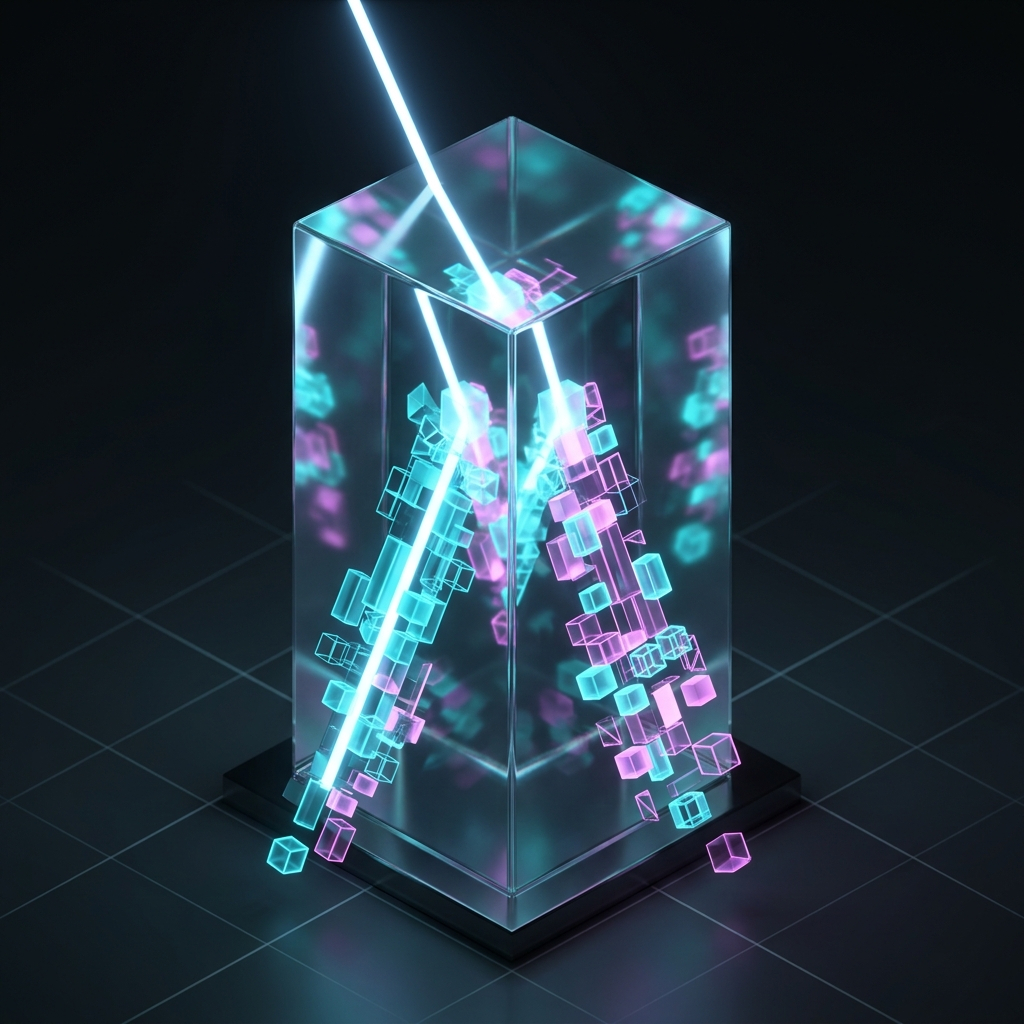
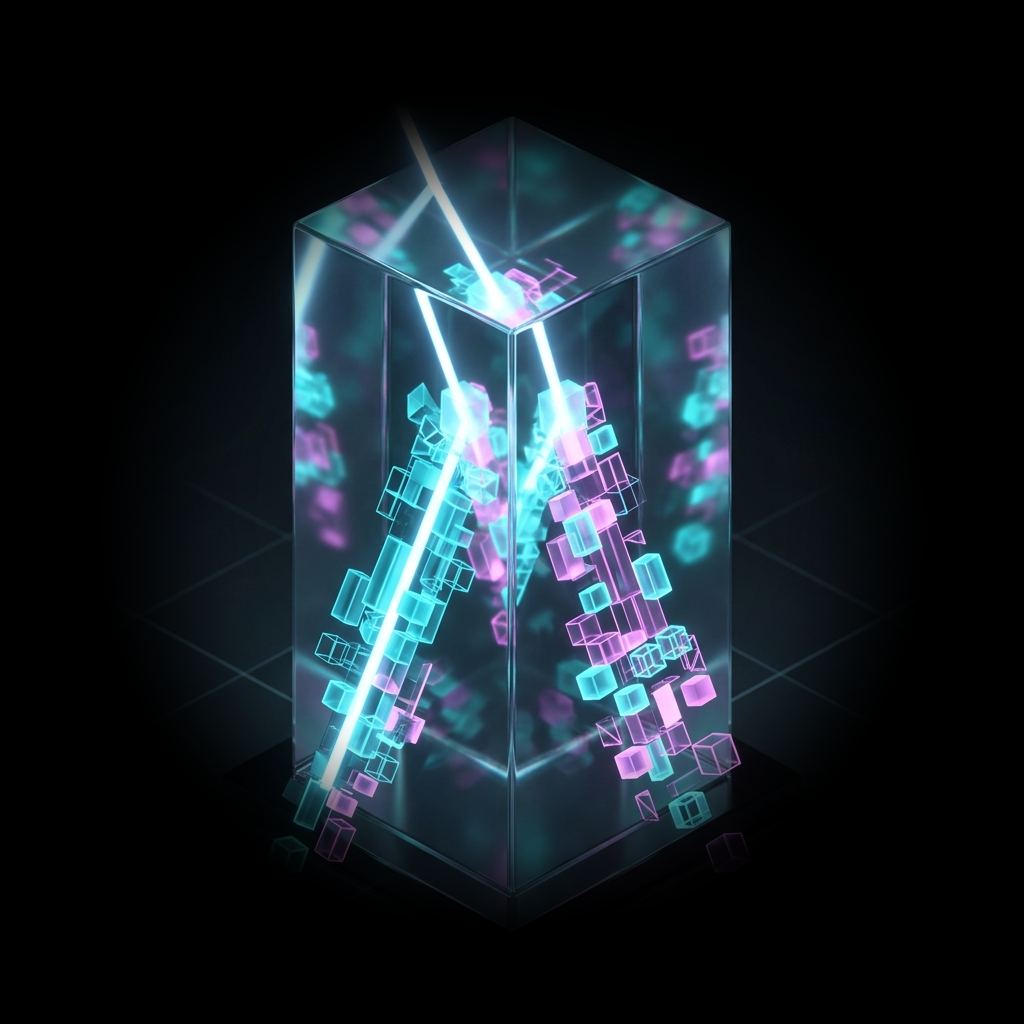
Add vignette to images for perfect black borders with mix-blend-screen and implement Resend server action for Partner Form

diff --git a/src/components/ui/PartnerButton.tsx b/src/components/ui/PartnerButton.tsx
@@ -3,7 +3,8 @@
 import React, { useState } from 'react';
 import { Button, ButtonProps } from './Button';
 import { motion, AnimatePresence } from 'framer-motion';
-import { X } from 'lucide-react';
+import { X, CheckCircle, Loader2 } from 'lucide-react';
+import { sendPartnerEmail } from '@/app/actions/contact';
 
 interface PartnerButtonProps extends ButtonProps {
     children: React.ReactNode;
@@ -11,6 +12,9 @@ interface PartnerButtonProps extends ButtonProps {
 
 export function PartnerButton({ children, className, ...props }: PartnerButtonProps) {
     const [isOpen, setIsOpen] = useState(false);
+    const [isSubmitting, setIsSubmitting] = useState(false);
+    const [isSuccess, setIsSuccess] = useState(false);
+    const [errorMsg, setErrorMsg] = useState('');
     
     // Form state
     const [name, setName] = useState('');
@@ -18,20 +22,34 @@ export function PartnerButton({ children, className, ...props }: PartnerButtonPr
     const [role, setRole] = useState('Scientist / Researcher');
     const [message, setMessage] = useState('');
 
-    const handleSubmit = (e: React.FormEvent) => {
+    const handleSubmit = async (e: React.FormEvent) => {
         e.preventDefault();
+        setIsSubmitting(true);
+        setErrorMsg('');
         
-        // Compile subject and body
-        const subject = encodeURIComponent(`Partner Inquiry: ${role} - ${name}`);
-        const body = encodeURIComponent(
-            `Name: ${name}\nEmail: ${email}\nRole: ${role}\n\nMessage:\n${message}`
-        );
-        
-        // Open mail client
-        window.location.href = `mailto:kylen@levlhealth.com?subject=${subject}&body=${body}`;
-        
-        // Close modal after brief delay
-        setTimeout(() => setIsOpen(false), 300);
+        try {
+            const res = await sendPartnerEmail({ name, email, role, message });
+            
+            if (res.success) {
+                setIsSuccess(true);
+                setTimeout(() => {
+                    setIsOpen(false);
+                    // Reset form after closing
+                    setTimeout(() => {
+                        setIsSuccess(false);
+                        setName('');
+                        setEmail('');
+                        setMessage('');
+                    }, 300);
+                }, 2000);
+            } else {
+                setErrorMsg(res.error || 'Failed to send message.');
+            }
+        } catch (error) {
+            setErrorMsg('An unexpected error occurred.');
+        } finally {
+            setIsSubmitting(false);
+        }
     };
 
     return (
@@ -127,13 +145,28 @@ export function PartnerButton({ children, className, ...props }: PartnerButtonPr
                                     </div>
 
                                     <div className="pt-2">
-                                        <Button type="submit" variant="primary" className="w-full h-12">
-                                            Prepare Message
+                                        <Button type="submit" variant="primary" className="w-full h-12" disabled={isSubmitting || isSuccess}>
+                                            {isSubmitting ? (
+                                                <><Loader2 className="w-5 h-5 mr-2 animate-spin" /> Sending...</>
+                                            ) : isSuccess ? (
+                                                <><CheckCircle className="w-5 h-5 mr-2 text-green-400" /> Sent Successfully</>
+                                            ) : (
+                                                "Send Message"
+                                            )}
                                         </Button>
                                     </div>
-                                    <p className="text-center text-xs text-white/40 mt-3">
-                                        This will open your default email client so you can review before sending.
-                                    </p>
+                                    
+                                    {errorMsg && (
+                                        <p className="text-center text-sm text-red-400 mt-2">
+                                            {errorMsg}
+                                        </p>
+                                    )}
+                                    
+                                    {!errorMsg && !isSuccess && (
+                                        <p className="text-center text-xs text-white/40 mt-3">
+                                            We typically respond within 24 hours.
+                                        </p>
+                                    )}
                                 </form>
                             </div>
                         </motion.div>

diff --git a/src/app/actions/contact.ts b/src/app/actions/contact.ts
@@ -1,0 +1,47 @@
+"use server";
+
+import { Resend } from 'resend';
+
+export async function sendPartnerEmail(formData: {
+  name: string;
+  email: string;
+  role: string;
+  message: string;
+}) {
+  try {
+    const resendApiKey = process.env.RESEND_API_KEY;
+    
+    if (!resendApiKey) {
+      console.warn("RESEND_API_KEY is not set. Simulating email send for:", formData);
+      return { success: true, message: "Email simulated (no API key)" };
+    }
+
+    const resend = new Resend(resendApiKey);
+
+    const { data, error } = await resend.emails.send({
+      from: 'LEVL Platform <onboarding@resend.dev>', // Should be verified domain in production
+      to: ['kylen@levlhealth.com'],
+      subject: `Partner Inquiry: ${formData.role} - ${formData.name}`,
+      text: `
+New Partner Inquiry from LEVL Platform
+
+Name: ${formData.name}
+Email: ${formData.email}
+Role: ${formData.role}
+
+Message:
+${formData.message}
+      `,
+      replyTo: formData.email,
+    });
+
+    if (error) {
+      return { success: false, error: error.message };
+    }
+
+    return { success: true, data };
+  } catch (error) {
+    console.error("Failed to send email:", error);
+    return { success: false, error: "Internal server error" };
+  }
+}
